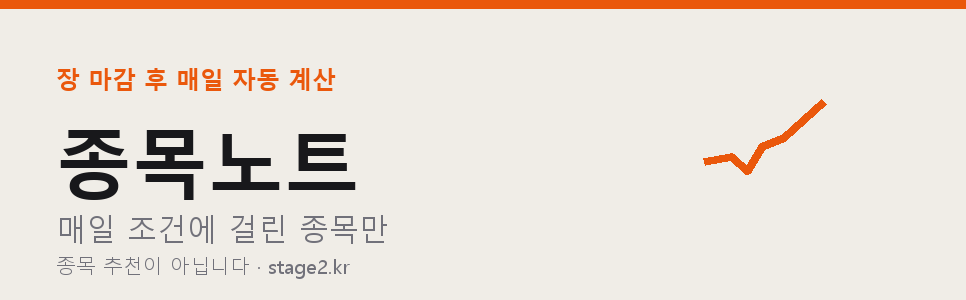
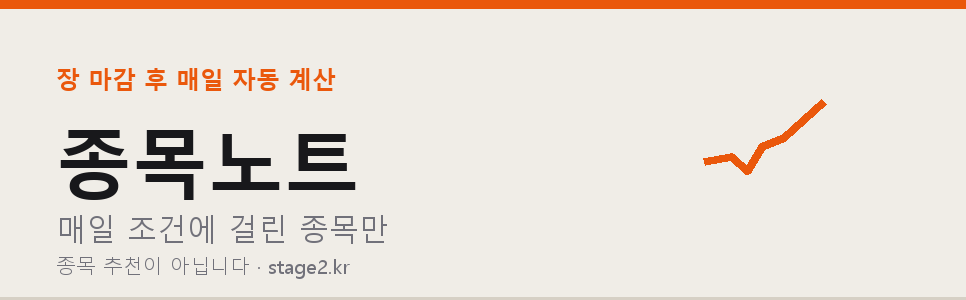
feat: 배너에 아래 구분선을 넣고 블로그용 프로필을 따로 만든다
블로그 바탕을 배너와 같은 크림색으로 맞추고 나니 배너가 어디서 끝나는지
보이지 않게 됐다. 배경색을 맞추는 것과 경계가 보이는 것은 따로 챙겨야
한다. 아래에 3px 구분선을 넣는다.

구분선을 주황으로 그으면 위 띠와 두 줄이 되어 배너가 상자처럼 갇힌다.
크림보다 조금 어두운 정도(#d6d0c5)면 경계로만 읽히고 시선을 끌지 않는다.

프로필은 두 장으로 나눈다. 네이버가 161px 로 크게 보여주는데 그 크기에서
주황 바탕이 너무 세다. 배너와 프로필이 주황 덩어리 둘로 갈려 시선이
나뉘었다. 블로그용은 크림 바탕에 주황 표식으로 뒤집는다.

쓰레드용은 그대로 주황이다. 40px 에서는 색 덩어리로 계정을 알아보므로
여기서 주황을 빼면 안 된다. 작게 보이는 곳과 크게 보이는 곳은 요구가
다르고, 한 장으로 둘 다 맞추면 어느 한쪽이 손해다.

Claude-Session: https://claude.ai/code/session_013o7baagr3FeWdBYuUu136P

Changed region(s): [[0.0, 0.99, 1.0, 1.0]]

diff --git a/scripts/make_avatar.py b/scripts/make_avatar.py
@@ -34,6 +34,8 @@ sys.path.insert(0, str(Path(__file__).parent))
 from social import card  # noqa: E402
 
 OUT = card.ROOT / "assets" / "avatar.png"
+# 블로그용. 네이버가 161px로 크게 보여줘서 주황 바탕이 과하다.
+OUT_BLOG = card.ROOT / "assets" / "avatar_blog.png"
 
 # 인스타는 320px로 줄여 쓰지만, 원본을 크게 두면 나중에 다른 데 쓸 때
 # 다시 그릴 일이 없다.
@@ -65,37 +67,49 @@ SKELETON = [
 ]
 
 
-def render(out_path=OUT):
-    img = Image.new("RGB", (S, S), card.ACCENT)
+def render(out_path=OUT, bg=None, note=None, ink=None):
+    """bg/note/ink 를 주면 색을 바꿔 그린다.
+
+    작게 보이는 곳(40px)과 크게 보이는 곳(161px)은 요구가 다르다. 쓰레드는
+    주황 덩어리로 계정을 알아보게 해야 하고, 블로그는 그 크기에서 주황이
+    너무 세다. 한 장으로 둘 다 맞추려면 어느 한쪽이 손해라 두 장을 만든다.
+    """
+    bg = bg or card.ACCENT
+    note = note or WHITE
+    ink = ink or card.ACCENT
+    img = Image.new("RGB", (S, S), bg)
     d = ImageDraw.Draw(img)
 
     nx, ny = (S - NOTE_W) / 2, (S - NOTE_H) / 2
     d.rounded_rectangle([nx, ny, nx + NOTE_W, ny + NOTE_H],
-                        radius=NOTE_RADIUS, fill=WHITE)
+                        radius=NOTE_RADIUS, fill=note)
 
     top = ny + (NOTE_H - HOLE_GAP * (HOLES - 1)) / 2 - 150
     for i in range(HOLES):
         cy = top + i * HOLE_GAP
         d.ellipse((nx + 60, cy - HOLE_R, nx + 60 + HOLE_R * 2, cy + HOLE_R),
-                  fill=card.ACCENT)
+                  fill=ink)
 
     x0, y0 = nx + 168, ny + 300
     w, h = NOTE_W - 250, 250
     pts = [(x0 + px * w, y0 + py * h) for px, py in SKELETON]
-    d.line(pts, fill=card.ACCENT, width=STROKE, joint="curve")
+    d.line(pts, fill=ink, width=STROKE, joint="curve")
 
     # joint="curve"는 이음매만 둥글게 하고 양 끝은 각진 채로 둔다.
     # 끝에 원을 하나씩 찍어야 선이 잘린 것처럼 보이지 않는다.
     r = STROKE / 2
     for x, y in (pts[0], pts[-1]):
-        d.ellipse((x - r, y - r, x + r, y + r), fill=card.ACCENT)
+        d.ellipse((x - r, y - r, x + r, y + r), fill=ink)
 
     return card._save(img, out_path)
 
 
 def main():
     path = render()
-    print(f"프로필 사진 생성: assets/{path.name}")
+    print(f"프로필 사진 생성: assets/{path.name}  (쓰레드·인스타)")
+    # 블로그용은 배너와 같은 크림 바탕에 주황 표식.
+    blog = render(OUT_BLOG, bg=card.P_BG, note=(255, 255, 255), ink=card.ACCENT)
+    print(f"프로필 사진 생성: assets/{blog.name}  (네이버 블로그)")
 
 
 if __name__ == "__main__":

diff --git a/scripts/make_blog_images.py b/scripts/make_blog_images.py
@@ -39,6 +39,10 @@ FOOTER = "종목 추천이 아닙니다 · stage2.kr"
 # 네이버가 블로그 이름을 겹쳐 찍는 자리. 여기는 비워 둔다.
 NAME_ZONE = 400
 
+# 배너 아래 구분선. 바탕과 배너가 같은 색이라 이게 없으면 경계가 사라진다.
+DIVIDER = 3
+DIVIDER_COLOR = (214, 208, 197)
+
 
 def _mark(d, cx, cy, scale, color):
     """아바타와 같은 표식 — 바닥을 다지다 위로 뚫고 나가는 선.
@@ -76,6 +80,14 @@ def title_image():
 
     # 표식은 이름이 겹칠 자리를 피해 오른쪽 끝에 둔다.
     _mark(d, W - NAME_ZONE // 2, H // 2, 62, card.P_ACCENT)
+
+    # 아래 구분선. 블로그 바탕을 배너와 같은 크림색으로 맞추고 나면 배너가
+    # 어디서 끝나는지 보이지 않는다. 배경색을 맞추는 것과 경계가 보이는 것은
+    # 따로 챙겨야 한다.
+    #
+    # 주황으로 그으면 위 띠와 두 줄이 되어 배너가 상자처럼 갇힌다. 크림보다
+    # 조금 어두운 정도면 경계로만 읽히고 시선을 끌지 않는다.
+    d.rectangle([0, H - DIVIDER, W, H], fill=DIVIDER_COLOR)
     return img
 
 
